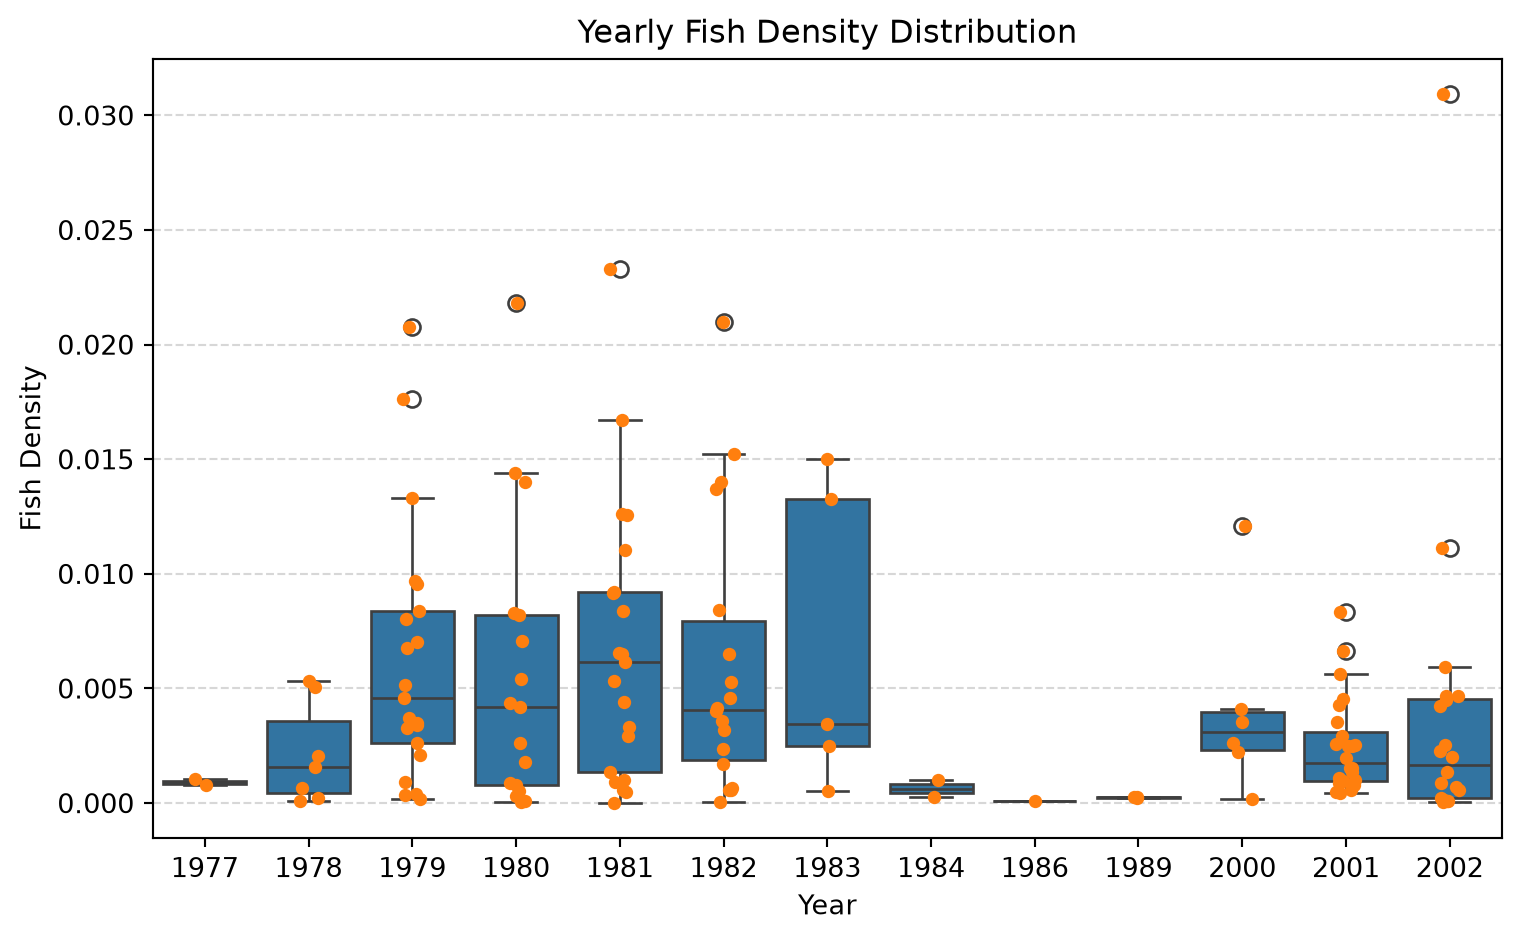
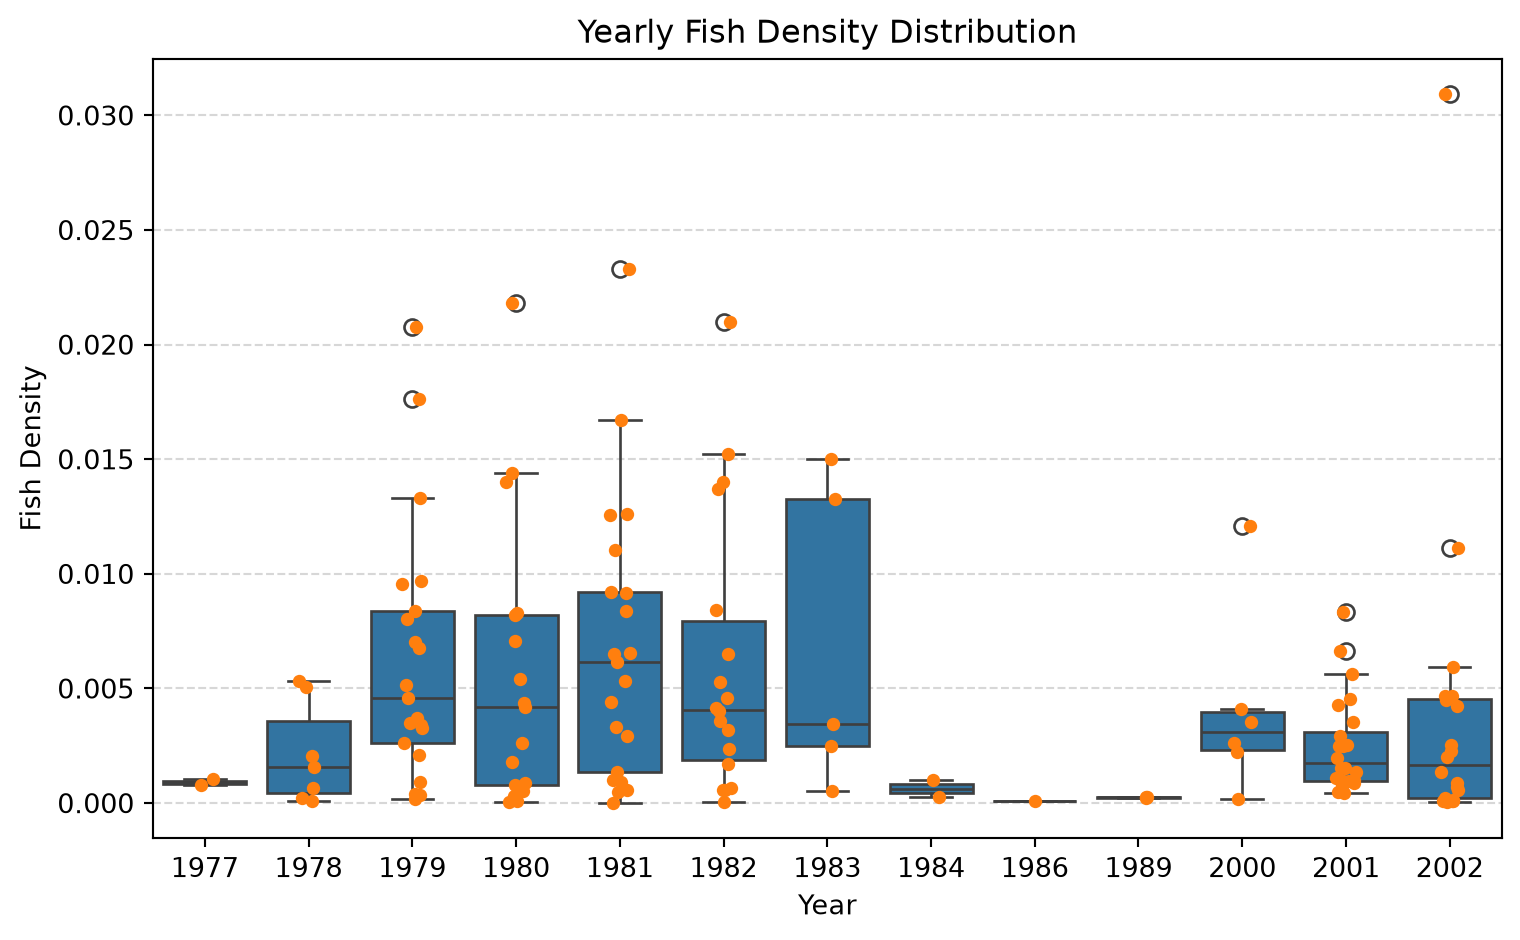
Build the website

diff --git a/docs/posts/fishing/index.html b/docs/posts/fishing/index.html
@@ -476,7 +476,7 @@ pre > code.sourceCode > span > a:first-child::before { text-decoration: underlin
 </div>
 </div>
 <p>Grouping by period reveals a pronounced downward trajectory in fish density over time. To better evaluate why annual averages mask this trend, we generate a figure comparing yearly density values.</p>
-<div id="e2a2ecc8" class="cell" data-execution_count="4">
+<div id="8a7410af" class="cell" data-execution_count="4">
 <div class="code-copy-outer-scaffold"><div class="sourceCode cell-code" id="cb4"><pre class="sourceCode python code-with-copy"><code class="sourceCode python"><span id="cb4-1"><a href="#cb4-1" aria-hidden="true" tabindex="-1"></a>plt.figure(figsize<span class="op">=</span>(<span class="dv">8</span>, <span class="dv">5</span>))</span>
 <span id="cb4-2"><a href="#cb4-2" aria-hidden="true" tabindex="-1"></a></span>
 <span id="cb4-3"><a href="#cb4-3" aria-hidden="true" tabindex="-1"></a><span class="co"># Boxplot overlaid with strip plot for individual points</span></span>

diff --git a/docs/index.html b/docs/index.html
@@ -129,8 +129,6 @@ ul.task-list li input[type="checkbox"] {
 <div class="quarto-title-meta">
   </div>
 </header><main class="content" id="quarto-document-content">
-<p>This is a Quarto website.</p>
-<p>To learn more about Quarto websites visit <a href="https://quarto.org/docs/websites" class="uri">https://quarto.org/docs/websites</a>.</p>
 <p>I come from Guangdong China. I studied in University of Alberta for Bachelor of Science in Computing Science before MDS. I hope I can find a good job after the program. Note that I does not look like the image above. This milestone provides basic instructions on how to use quarto.</p>
 
 
